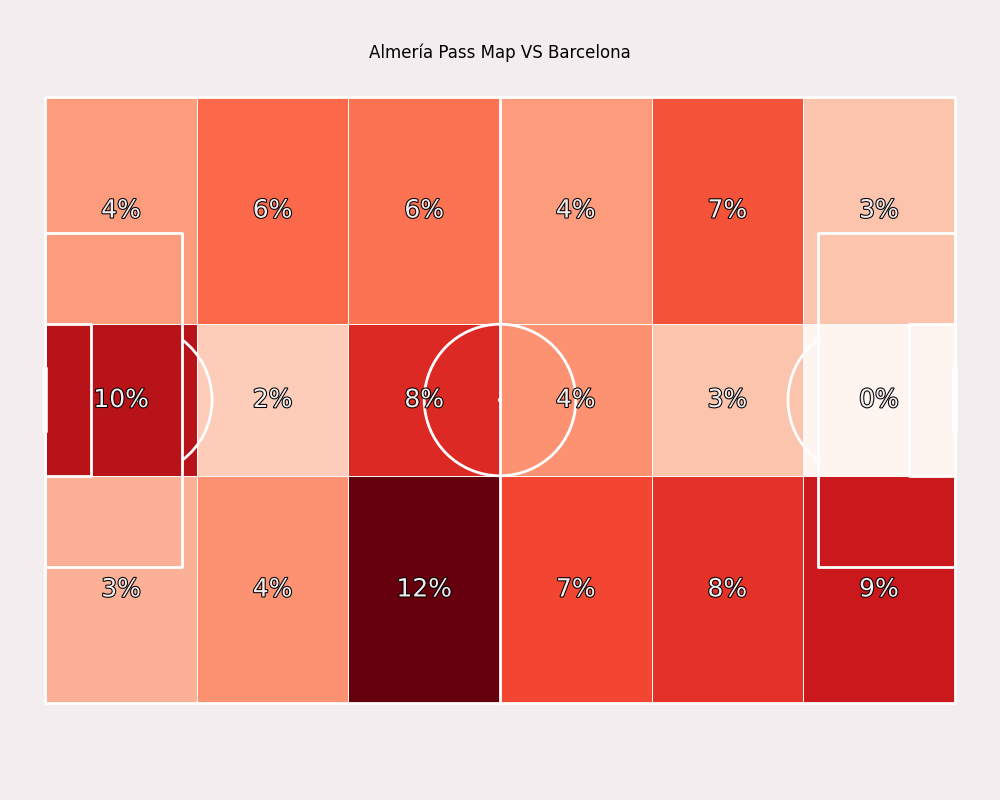
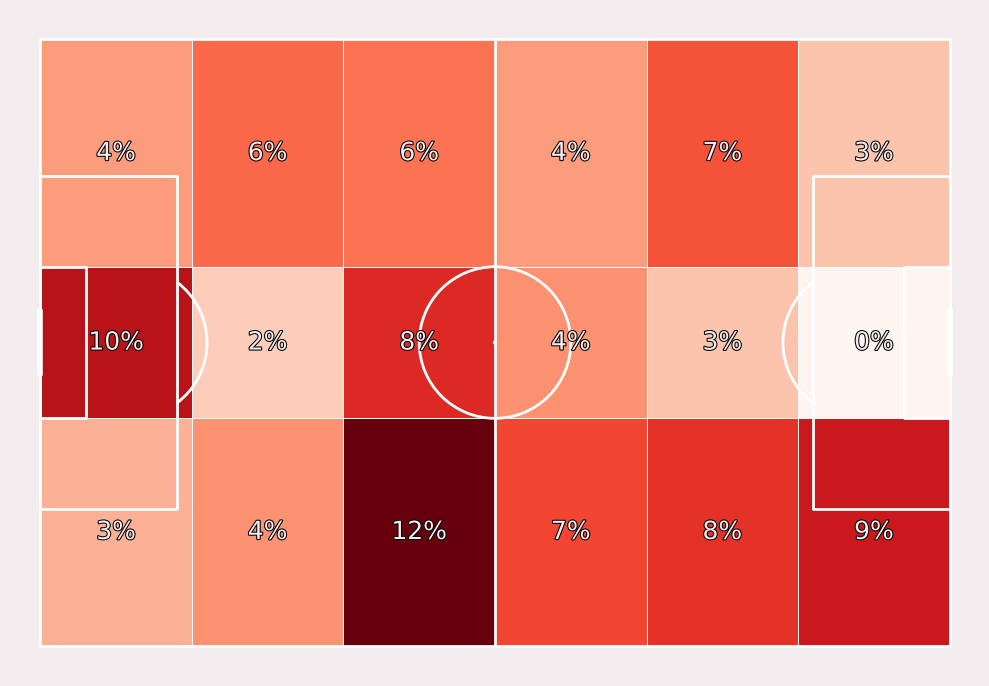
ignore warnings and removed axis

diff --git a/public/html/player.html b/public/html/player.html
@@ -6,7 +6,7 @@
       <link rel="stylesheet" media="print" href="../css/print.css" />
       <link href="https://maxcdn.bootstrapcdn.com/font-awesome/6.1.1/css/font-awesome.min.css" rel="stylesheet">
       <div class="print">
-      <img style="margin-left: 0px; max-width: 15%;" src="../images/SoccerTact_logo.png">
+        <a href="/"><img style="margin-left: 0px; max-width: 20%;" src="../images/SoccerTact_logo.png"></a>
 
         <button  class="back-button" onclick=window.history.go(-2) >Team Analysis</button>
         <button class="print-button" onclick="window.print()" style=""><span class="print-icon"></span></button>
@@ -45,12 +45,12 @@
 <body>
   <div class="player_images" style="">
    
-    <div  margin-left: 2%;><img id="myImg" class="myImg" style=""  >   
+    <div  margin-left: 2%;><img  title="KPI" id="myImg" class="myImg" style=""  >   
        <img class="img3" src="../ply_analysis/poss.png " >
       
       <!-- <h1 class="img3"> Possesion Analysis</h1> -->
      </div>
-    <div  ><img  class="myImg2" id="myImg2" style=""  >
+    <div  ><img  title="Pass analysis" class="myImg2" id="myImg2" style=""  >
     
       <img class="img3" src="../ply_analysis/shot.png " >
     
@@ -112,12 +112,15 @@
    var img2= document.getElementById("myImg2");
   function pass(){
     img2.src="../ply_analysis/pass.png";
+    img2.title="Pass Analysis";
   }
   function shot(){
     img2.src="../ply_analysis/shot.png";
+    img2.title="Shot Analysis";
   }
   function poss(){
   img2.src="../ply_analysis/poss.png";
+  img2.title="Possesion Analysis"
   }
         img.src="../ply_analysis/KPI.png";
         img2.src="../ply_analysis/pass.png";
@@ -136,7 +139,8 @@ img.onerror = function(e) {
     
 
 </body>
-
+<!-- 
+<footer> <small>&copy; Copyright 2022, Example Corporation</small> </footer>  -->
 
 
 </html>

diff --git a/public/script/Event_HeatMap.py b/public/script/Event_HeatMap.py
@@ -54,14 +54,18 @@ def generate_HeatMap(m_id, t1, t2, e_data, l_data, event_type):
     labels2 = pitch.label_heatmap(bin_statistic, color='#f4edf0', fontsize=18,
                               ax=ax, ha='center', va='center',
                               str_format='{:.0%}', path_effects=path_eff)
-    ax.set_title(f'{t1} {event_type} Map VS {t2}', fontsize=12, color = "black")
+    # ax.set_title(f'{t1} {event_type} Map VS {t2}', fontsize=12, color = "black")
     if (event_type == "Duel"):
-        fig.savefig('./public/analysis/t1_duel.png')
+        fig.savefig('./public/analysis/t1_duel.png', bbox_inches = 'tight')
     elif (event_type == "Pass"):
-        fig.savefig('./public/analysis/t1_pass.png')
+        fig.savefig('./public/analysis/t1_pass.png', bbox_inches = 'tight')
     elif (event_type == "Pressure"):
-         fig.savefig('./public/analysis/t1_pressure.png')
+         fig.savefig('./public/analysis/t1_pressure.png', bbox_inches = 'tight')
 
+      
+    pitch2 = Pitch(pitch_type='statsbomb', line_zorder=2, pitch_color='#f4edf0')
+    fig, ax = pitch2.draw(figsize=(10,8))
+    fig.set_facecolor('#f4edf0')
 
     for i, event in t2_event_heat.iterrows():
         x=event['location'][0]
@@ -69,14 +73,14 @@ def generate_HeatMap(m_id, t1, t2, e_data, l_data, event_type):
         heat.append([x,y])
     df = pd.DataFrame(heat, columns = ['X', 'Y'])
     
-    bin_x = np.linspace(pitch.dim.left, pitch.dim.right, num=7)
-    bin_y = np.sort(np.array([pitch.dim.bottom, pitch.dim.six_yard_bottom,
-                          pitch.dim.six_yard_top, pitch.dim.top]))
+    bin_x = np.linspace(pitch2.dim.left, pitch2.dim.right, num=7)
+    bin_y = np.sort(np.array([pitch2.dim.bottom, pitch2.dim.six_yard_bottom,
+                          pitch2.dim.six_yard_top, pitch2.dim.top]))
     
-    bin_statistic = pitch.bin_statistic(df.X, df.Y, statistic='count', bins=(bin_x, bin_y), normalize=True )
+    bin_statistic1 = pitch2.bin_statistic(df.X, df.Y, statistic='count', bins=(bin_x, bin_y), normalize=True )
     
-    pitch.heatmap(bin_statistic, ax=ax, cmap='Reds', edgecolor='#f9f9f9')
-    labels2 = pitch.label_heatmap(bin_statistic, color='#f4edf0', fontsize=18,
+    pitch2.heatmap(bin_statistic1, ax=ax, cmap='Reds', edgecolor='#f9f9f9')
+    labels2 = pitch2.label_heatmap(bin_statistic1, color='#f4edf0', fontsize=18,
                               ax=ax, ha='center', va='center',
                               str_format='{:.0%}', path_effects=path_eff)
     #ax.set_title(f'{t2} {event_type} Map VS {t1}', fontsize=12, color = "black")

diff --git a/public/script/pass_map.py b/public/script/pass_map.py
@@ -90,7 +90,7 @@ def generate_pass(m_id,t1,t2,e_data,l_data):
     fm = pitch.flow(df_pass.x, df_pass.y, df_pass.end_x, df_pass.end_y,
                 color='black', arrow_type='same',
                 arrow_length=5, bins=bins, ax=ax)
-    ax.set_title(f'{t2} pass flow map vs {t1}', fontsize=12, color = "red")
+    # ax.set_title(f'{t2} pass flow map vs {t1}', fontsize=12, color = "red")
     fig.savefig('./public/analysis/t2pass.png', bbox_inches = 'tight')
 
 
@@ -193,9 +193,9 @@ def passing_network(m_id,t1,t2,e_data,l_data):
     axs['endnote'].set_xlim(0, 1)
     axs['endnote'].set_ylim(0, 1)
 
-    axs['title'].text(0.5, 0.7, f'{t1} Passing Network VS {t2}', color='#c7d5cc',
-                  va='center', ha='center', fontsize=30)
-    fig.savefig("./public/analysis/t1pn.png")
+    # axs['title'].text(0.5, 0.7, f'{t1} Passing Network VS {t2}', color='#c7d5cc',
+    #               va='center', ha='center', fontsize=30)
+    fig.savefig("./public/analysis/t1pn.png", bbox_inches = 'tight')
 
 
     t2_data = df.loc[df['team_name'] == t2].set_index('id')
@@ -289,7 +289,7 @@ def passing_network(m_id,t1,t2,e_data,l_data):
     axs['endnote'].set_xlim(0, 1)
     axs['endnote'].set_ylim(0, 1)
 
-    axs['title'].text(0.5, 0.7, f'{t2} Passing Network VS {t1}', color='#c7d5cc',
-                  va='center', ha='center', fontsize=30)
+    # axs['title'].text(0.5, 0.7, f'{t2} Passing Network VS {t1}', color='#c7d5cc',
+    #               va='center', ha='center', fontsize=30)
     fig.savefig('./public/analysis/t2_PN.png', bbox_inches = 'tight')
     

diff --git a/public/script/ShotMap.py b/public/script/ShotMap.py
@@ -42,7 +42,7 @@ def generate_ShotXg(m_id,t1,t2,e_data,l_data):
         else:
            shotCircle2= pitch.scatter(x, y, marker='football', s= circleSize, ax=ax)     
             
-    ax.legend(facecolor='#22312b', edgecolor='None', fontsize=5, loc='upper left', handlelength=4)
+    # ax.legend(facecolor='#22312b', edgecolor='None', fontsize=5, loc='upper left', handlelength=4)
     #ax.set_title(f'{t1} Shot Map VS {t2}', fontsize=15, color = "black")
     fig.savefig('./public/analysis/t1_shot.png', bbox_inches = 'tight')
 
@@ -58,6 +58,6 @@ def generate_ShotXg(m_id,t1,t2,e_data,l_data):
         else:
            shotCircle2= pitch.scatter(x, y, marker='football', s= circleSize, ax=ax)     
             
-    ax.legend(facecolor='#22312b', edgecolor='None', fontsize=5, loc='upper left', handlelength=4)
+    # ax.legend(facecolor='#22312b', edgecolor='None', fontsize=5, loc='upper left', handlelength=4)
     #ax.set_title(f'{t2} Shot Map VS {t1}', fontsize=15, color = "black")
     fig.savefig('./public/analysis/t2_shot.png', bbox_inches = 'tight')

diff --git a/public/script/main.py b/public/script/main.py
@@ -4,6 +4,8 @@ from pass_map import passing_network
 from Event_HeatMap import generate_HeatMap
 from timeline import generate_timeline
 from team_KPI import getMatchKPI
+import warnings
+warnings.filterwarnings("ignore")
 
 import sys
 import requests

diff --git a/public/script/player_analysis.py b/public/script/player_analysis.py
@@ -10,6 +10,8 @@ import sys
 import requests
 import json
 from pandas import json_normalize
+import warnings
+warnings.filterwarnings("ignore")
 
 m_id = str(sys.argv[1])
 player_name = str(sys.argv[2])
